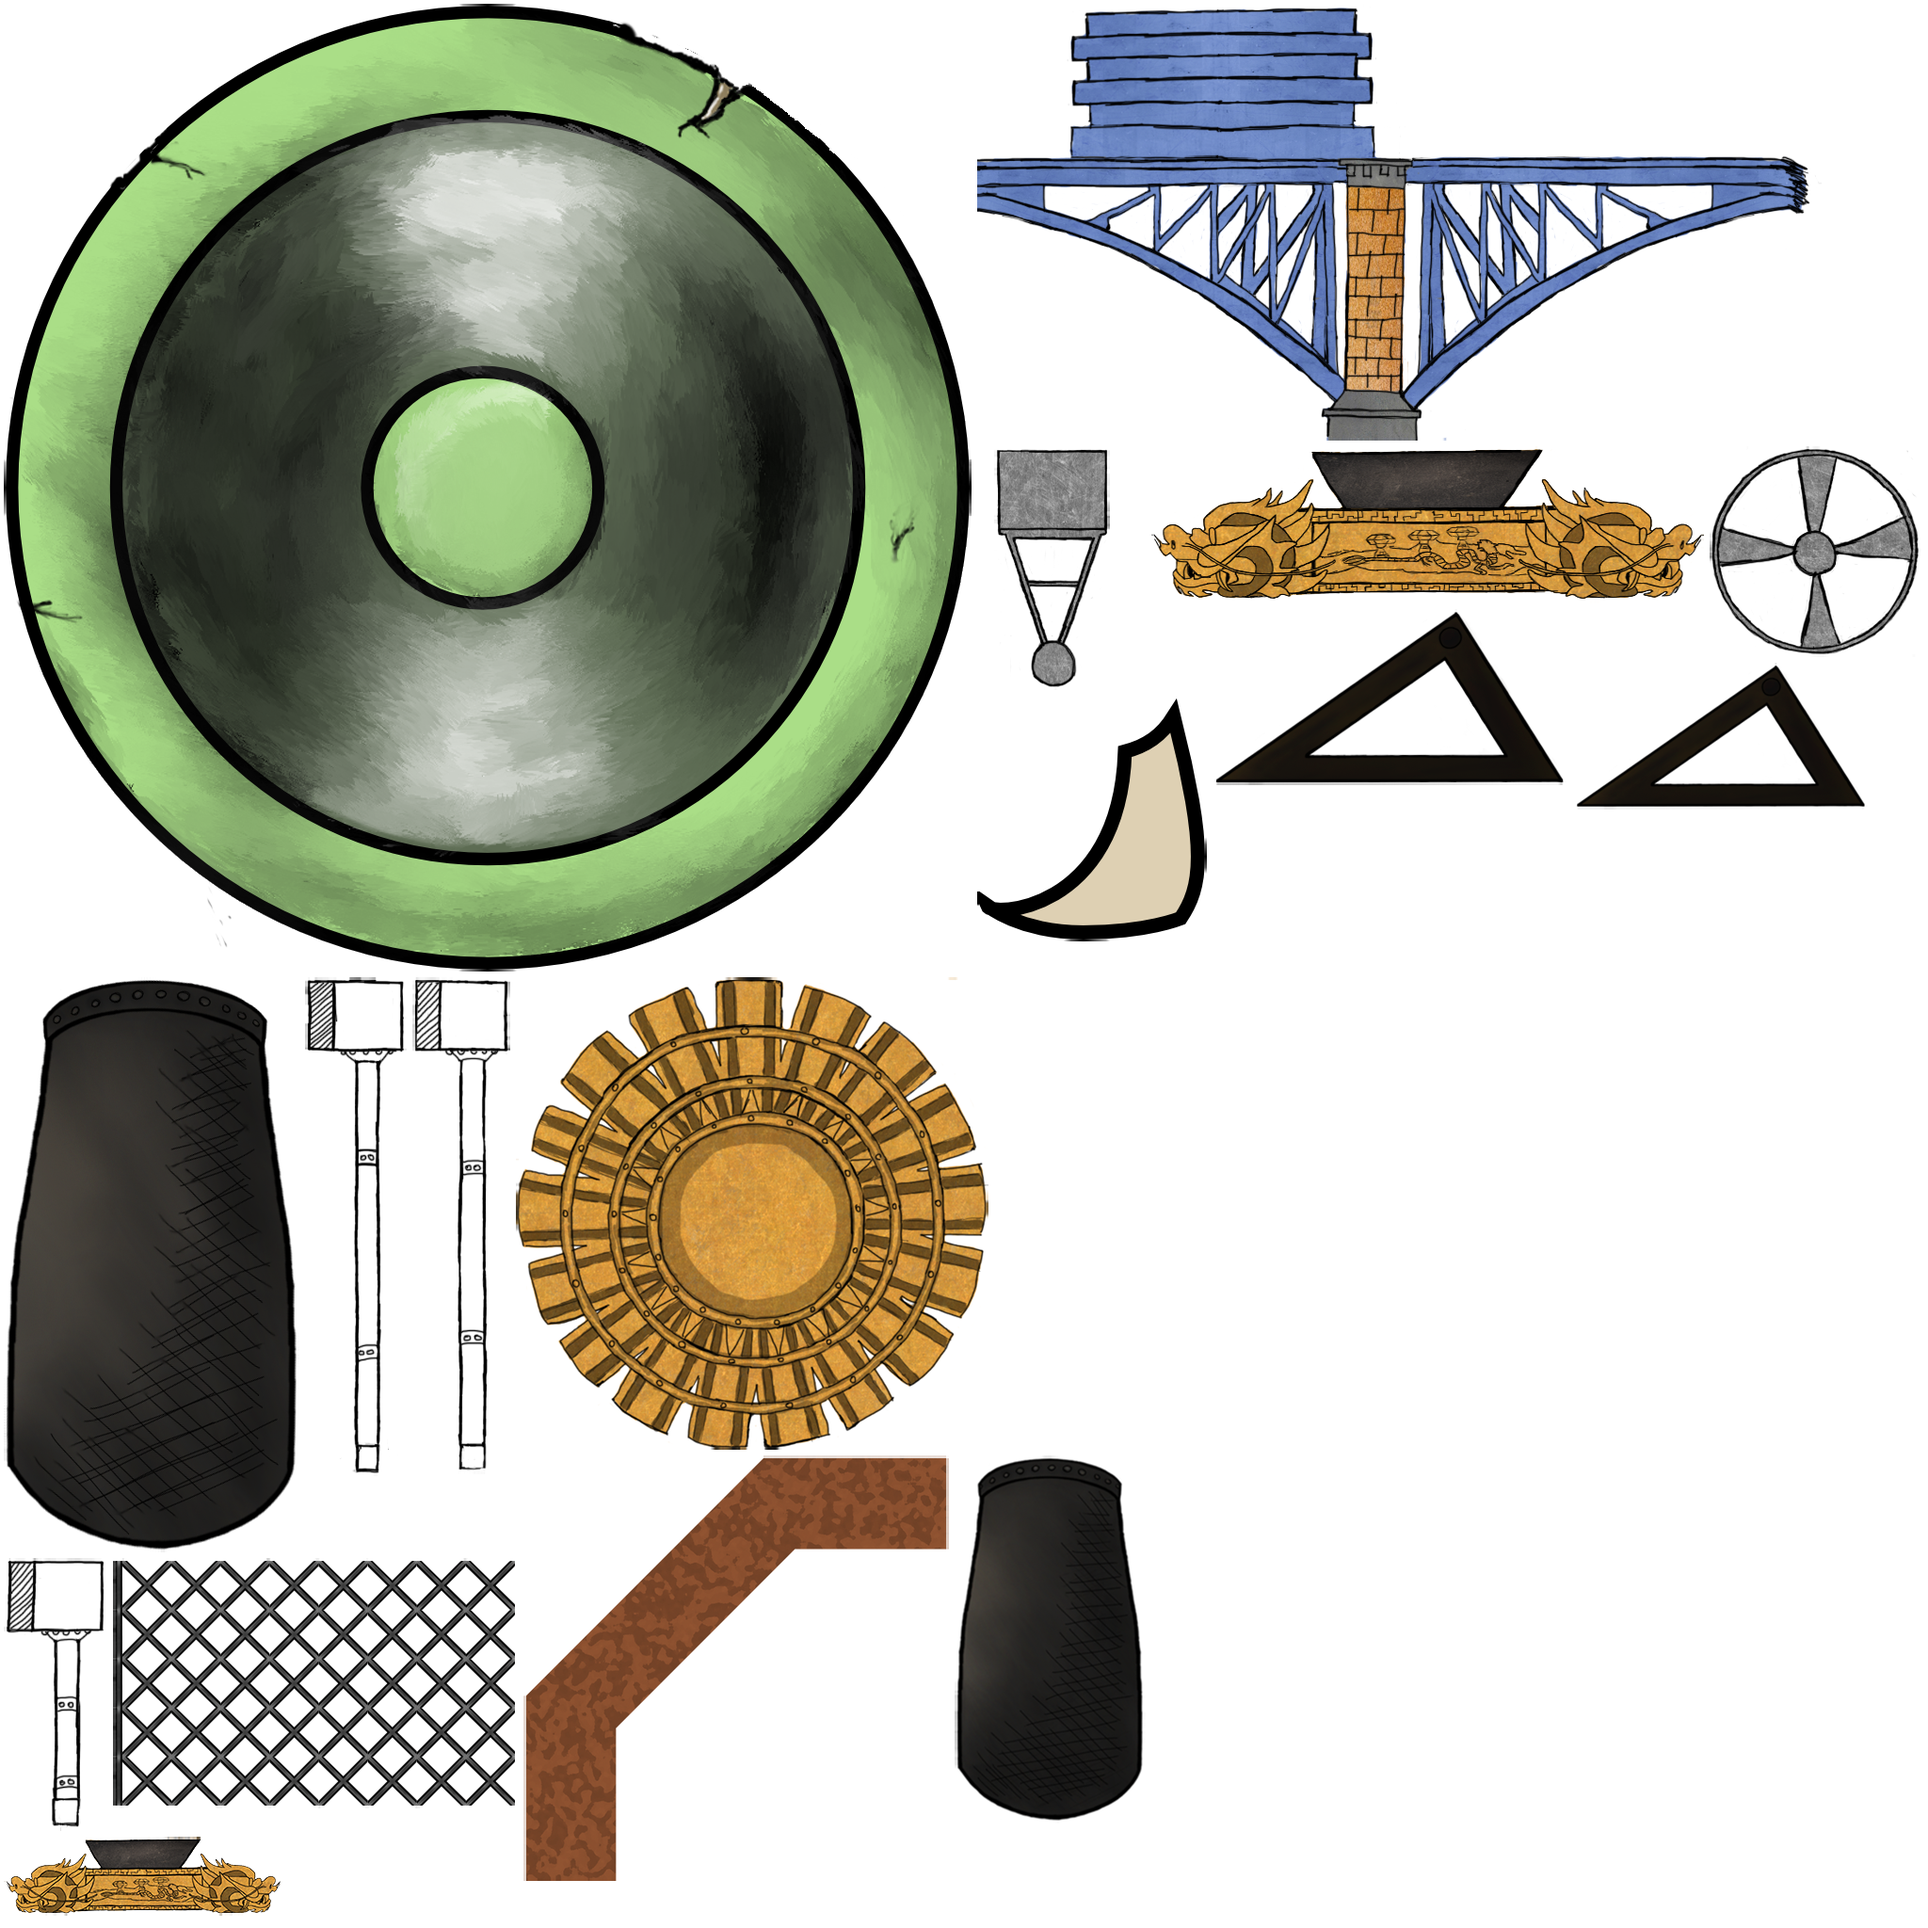
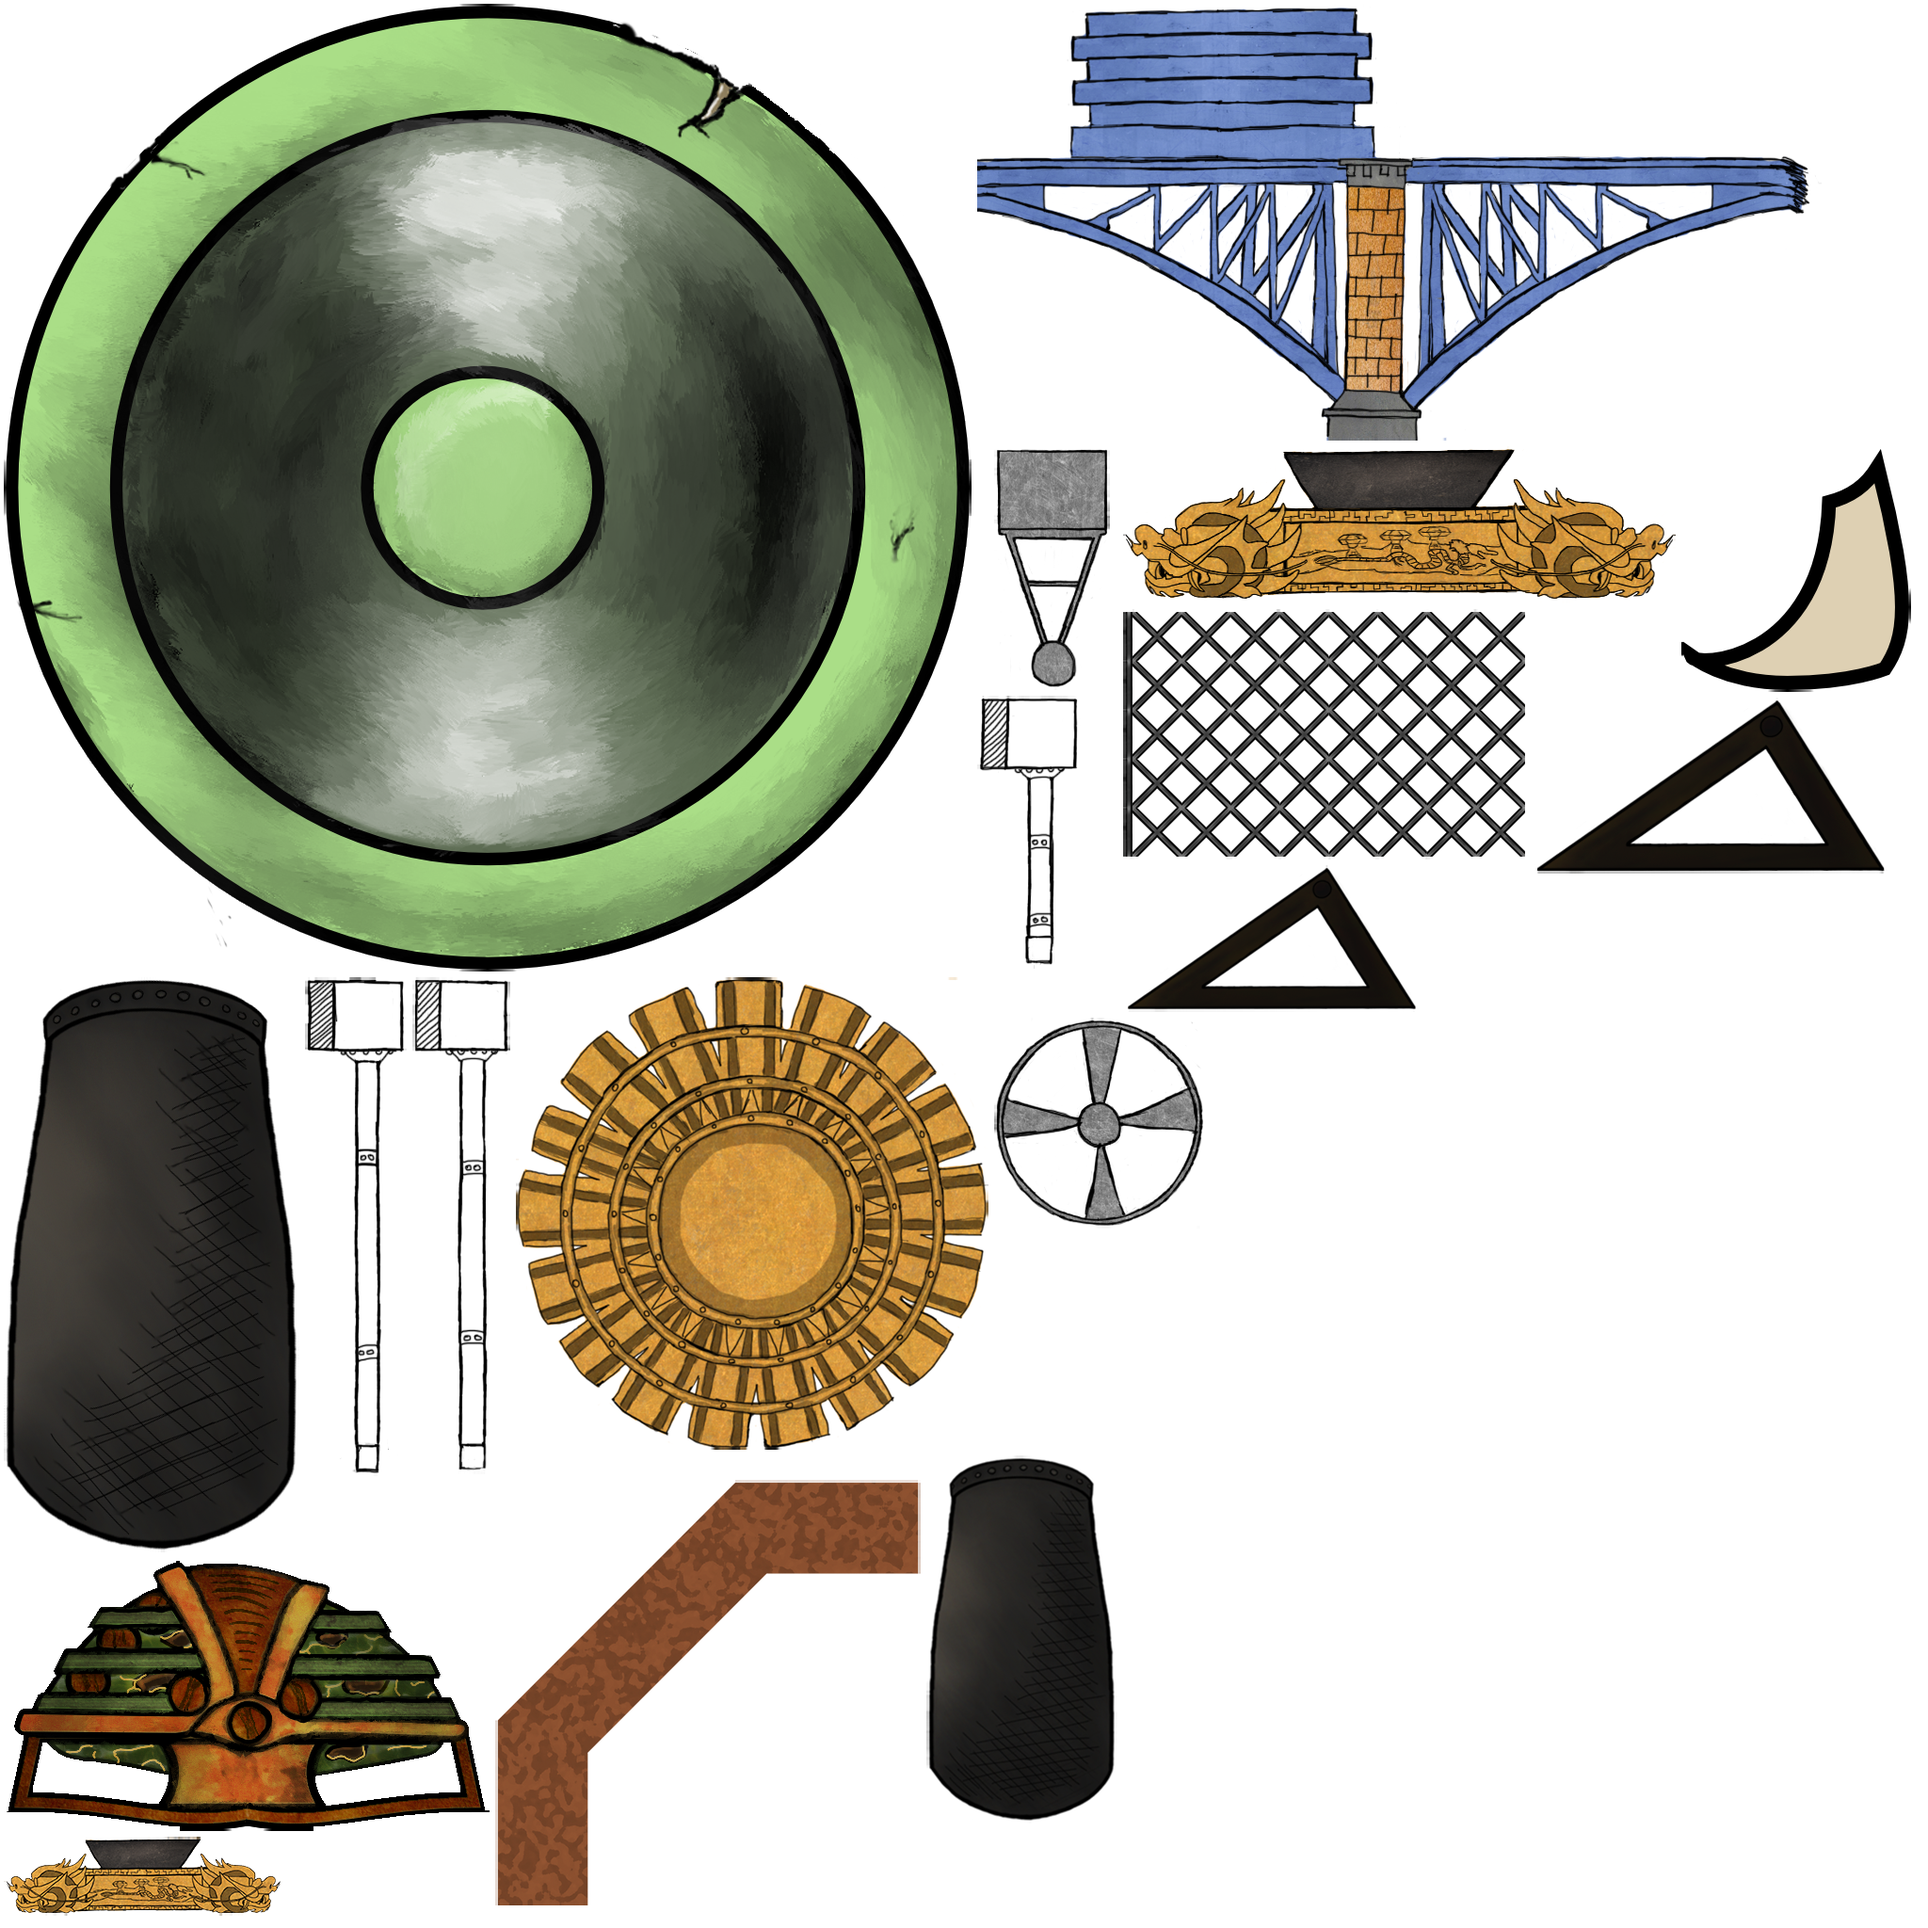
brain's in but it looks dumb in game

Changed region(s): [[0.5, 0.2188, 1.0, 0.6562], [0.0, 0.75, 0.5938, 1.0]]

diff --git a/werescrewed/src/com/blindtigergames/werescrewed/screens/DragonScreen.java b/werescrewed/src/com/blindtigergames/werescrewed/screens/DragonScreen.java
@@ -1117,6 +1117,7 @@ public class DragonScreen extends Screen {
 		TextureAtlas head_right = WereScrewedGame.manager.getAtlas( "head_top_right" );
 		TextureAtlas head_jaw = WereScrewedGame.manager.getAtlas( "head_jaw" );
 		TextureAtlas head_interior = WereScrewedGame.manager.getAtlas( "body_right-head_interior" );
+		TextureAtlas dragon_objects = WereScrewedGame.manager.getAtlas( "dragon_objects" );
 		float scale = 2;//1f/.66f;
 		//UPPER HEAD
 		Sprite s;
@@ -1145,6 +1146,13 @@ public class DragonScreen extends Screen {
 				Sprite.scale(head_interior.createSprite( "head-interior" ),1f/.4f), 
 				new Vector2(-1420,-720) );
 		addBGSkeleton( headSkeleton );
+		
+		
+		scale=1f/.65f;
+		Platform brain = (Platform)LevelFactory.entities.get("dragon_brain");
+		s = dragon_objects.createSprite( "dragon_brain" );
+		brain.addFGDecal( Sprite.scale(s,1f/.65f),new Vector2(-s.getWidth( )/2*scale,-s.getHeight( )/2*scale) );
+		addFGEntity( brain );
 	}
 	
 	void initEyebrow(){
